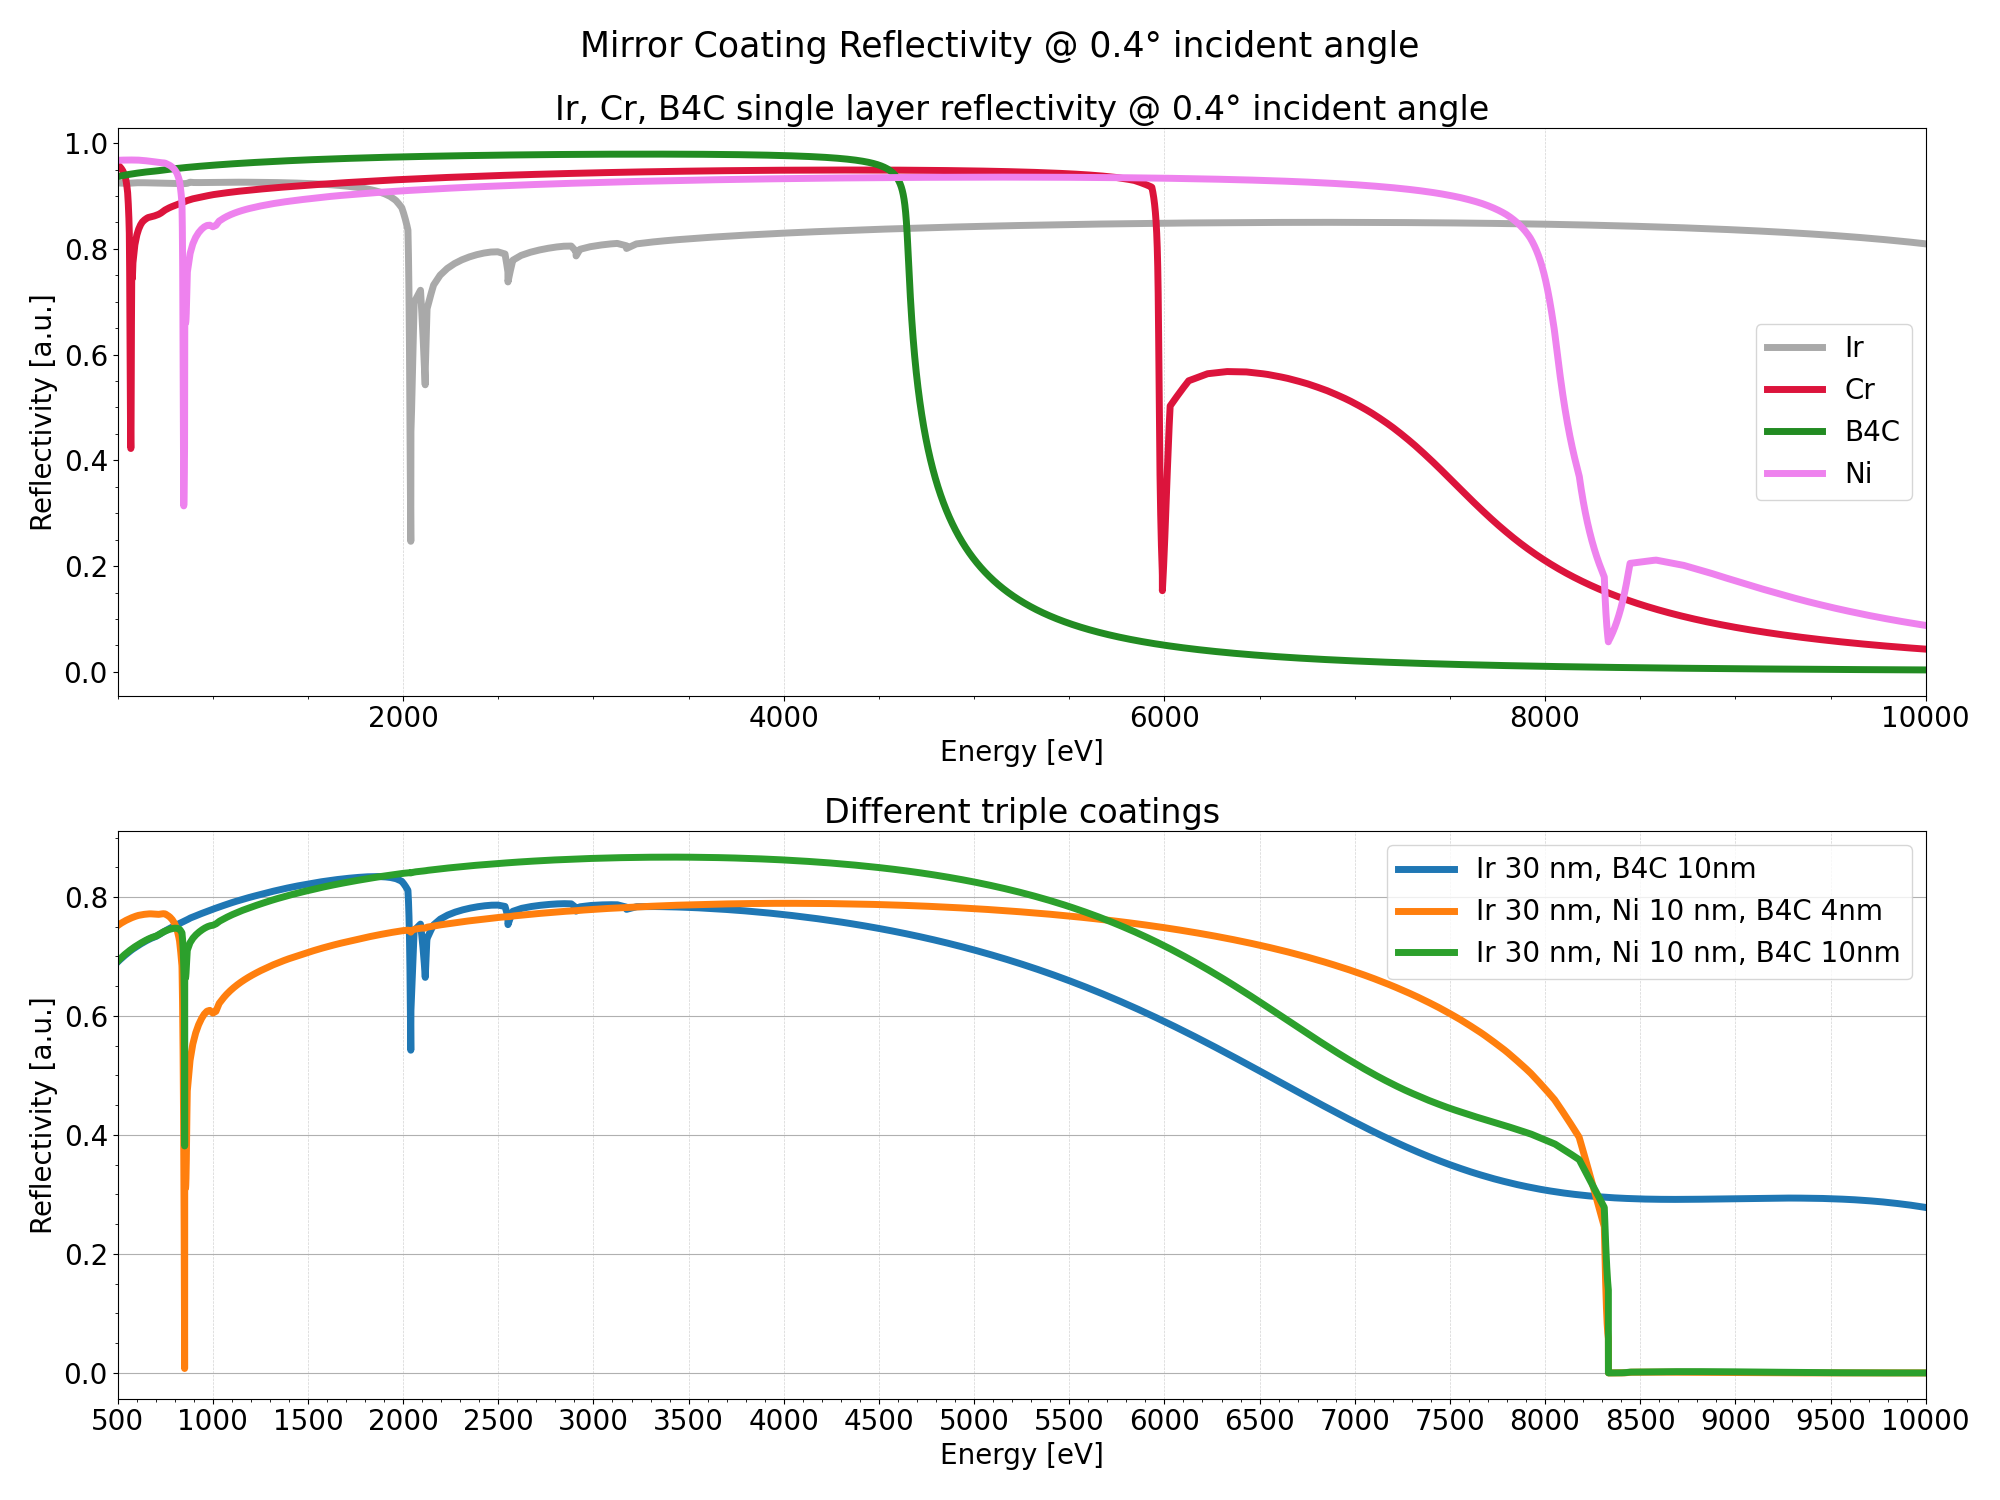
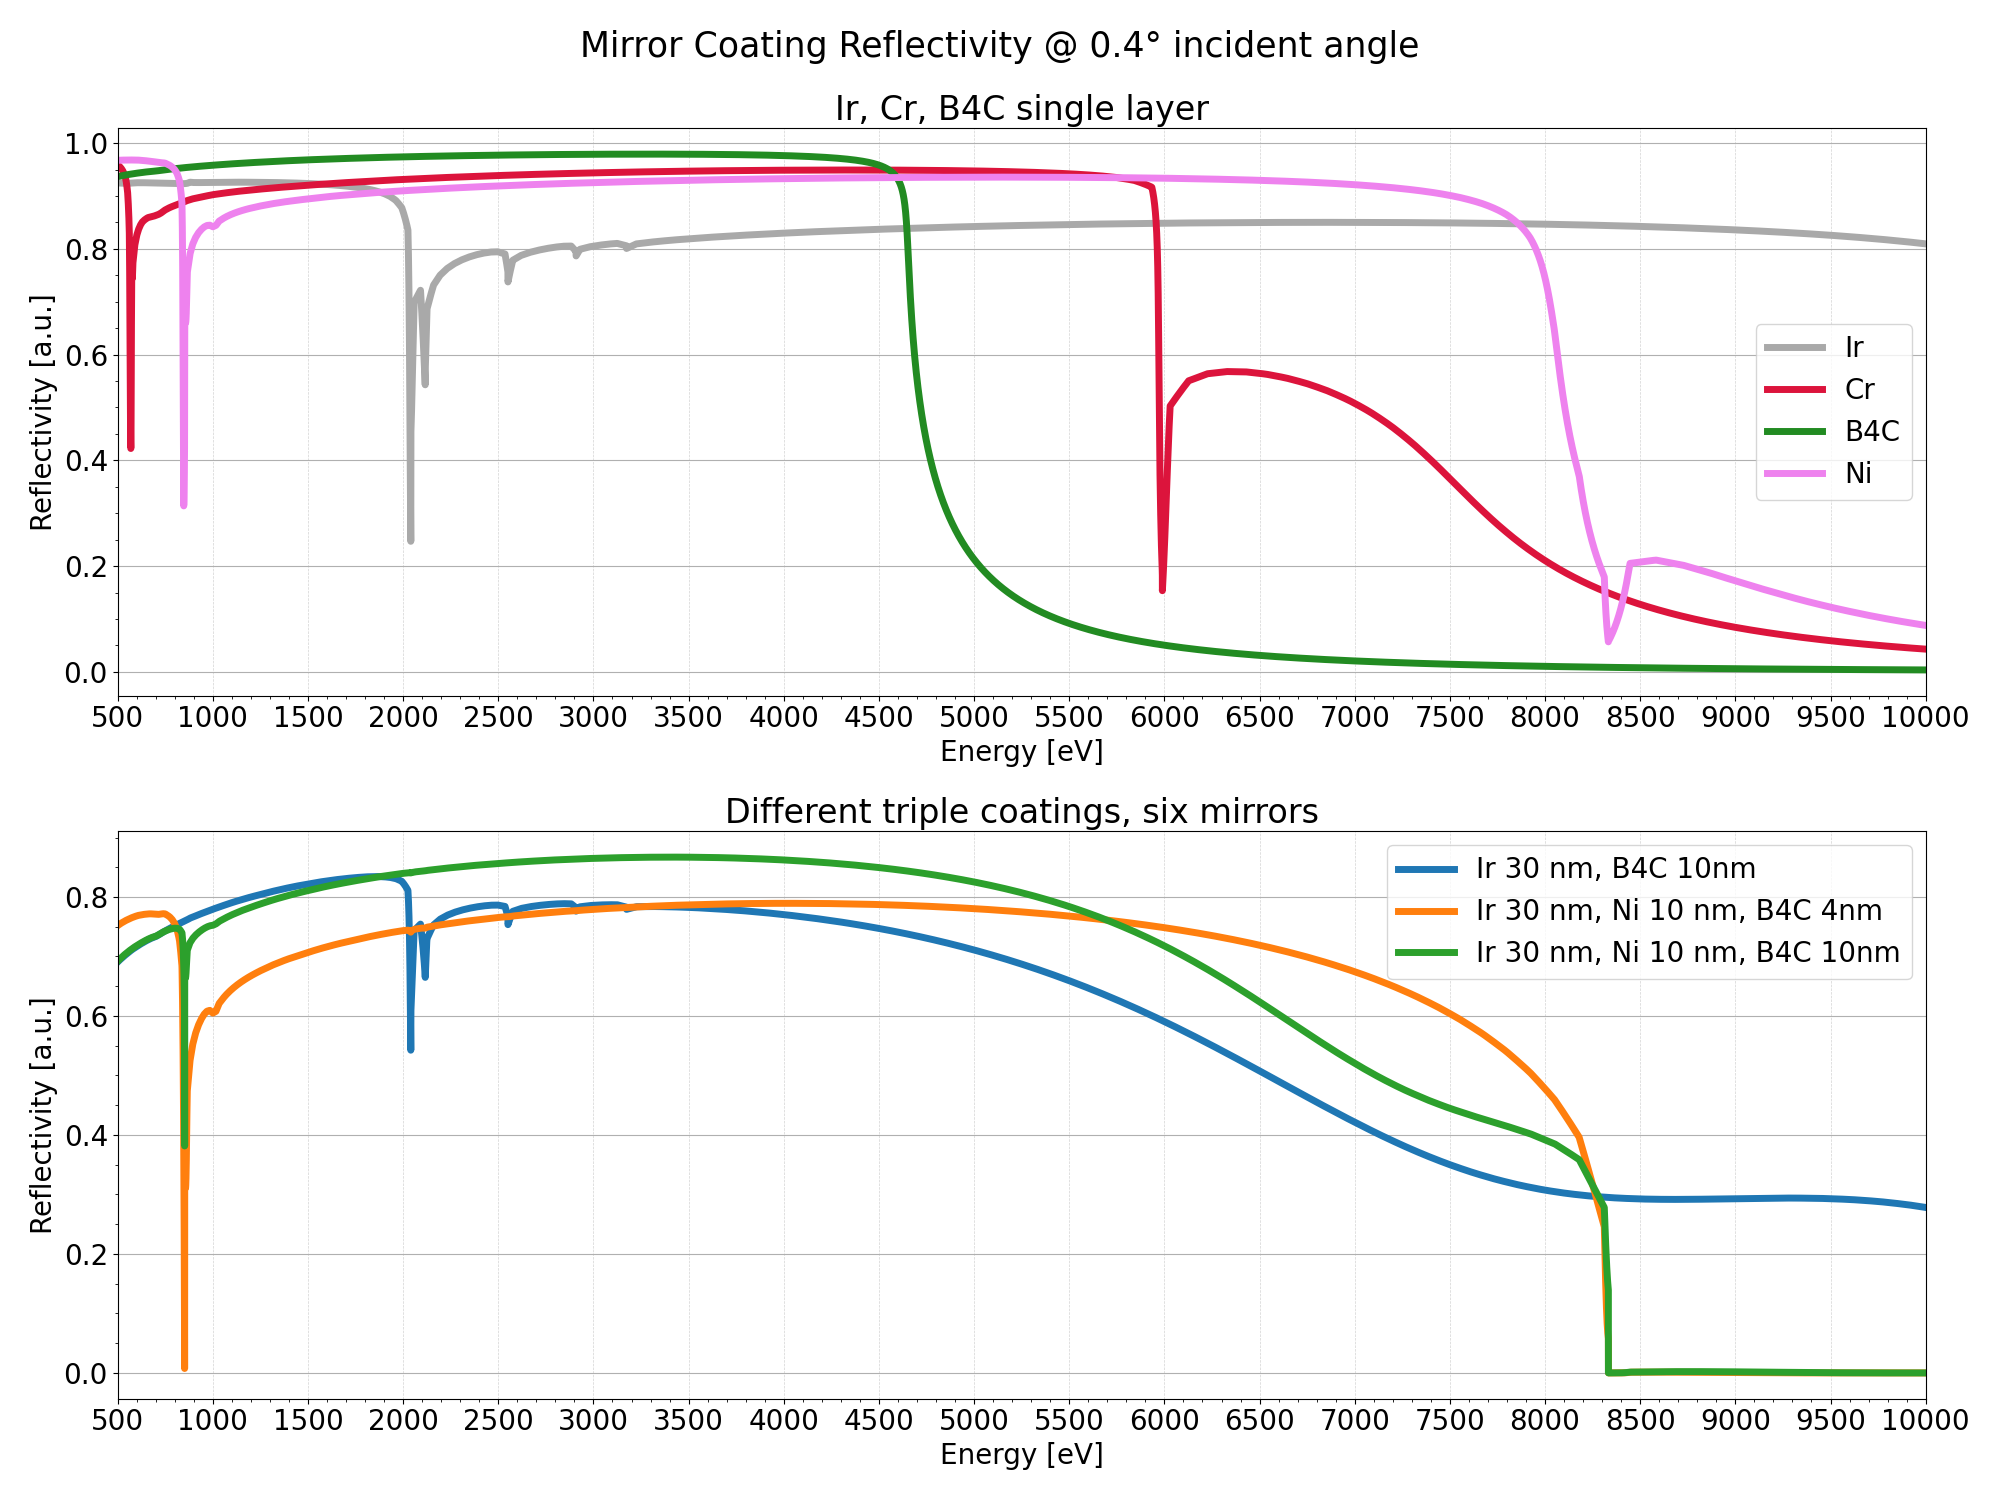
coatings sotexs

diff --git a/beamlines/Signature1-SoTeXS/simulations/coatings/coatings.py b/beamlines/Signature1-SoTeXS/simulations/coatings/coatings.py
@@ -39,14 +39,19 @@ ax1.plot(E, Cr_r, 'crimson', label='Cr', linewidth=5)
 ax1.plot(E, B4C_r, 'forestgreen', label='B4C', linewidth=5)
 ax1.plot(E, Ni_r, 'violet', label='Ni', linewidth=5)
 
-ax1.set_title('Ir, Cr, B4C single layer reflectivity @ 'f'{theta}° incident angle')
+ax1.set_title('Ir, Cr, B4C single layer')
 ax1.set_xlabel('Energy [eV]')
 ax1.set_ylabel('Reflectivity [a.u.]')
 ax1.legend(loc='center right')
 ax1.set_xlim(x_range)
 ax1.minorticks_on()
 ax1.grid(which='major', axis='x', linestyle='--', linewidth=0.5, color='lightgrey')
-
+# Add more ticks and labels
+ax1.xaxis.set_major_locator(ticker.MultipleLocator(500))  # 1 tick per unit
+# ax1.yaxis.set_major_locator(ticker.MultipleLocator(0.1))  # 0.1 tick per unit
+ax1.xaxis.set_minor_locator(ticker.AutoMinorLocator())
+# ax1.yaxis.set_minor_locator(ticker.AutoMinorLocator())
+ax1.grid(True)
 
 # some coatings
 ax1 = axs[1]
@@ -62,6 +67,7 @@ coating = rm.Multilayer(tLayer=B4C, tThickness=B4C_t*10,
 coating_r, _ = get_reflectivity(coating, E=E, theta=theta)
 ax1.plot(E, coating_r**power, label=f'Ir 30 nm, B4C {B4C_t}nm', linewidth=5)
 
+
 # Ir_Ni B4C
 Ni_t = 10
 for B4C_t in np.arange(4, 11, 6):
@@ -73,13 +79,11 @@ for B4C_t in np.arange(4, 11, 6):
              linewidth=5)
 
 
-ax1.set_title('Different triple coatings')
+ax1.set_title('Different triple coatings, six mirrors')
 ax1.set_xlabel('Energy [eV]')
 ax1.set_ylabel('Reflectivity [a.u.]')
 ax1.legend()
 ax1.set_xlim(x_range)
-ax1.minorticks_on()
-ax1.grid(which='major', axis='x', linestyle='--', linewidth=0.5, color='lightgrey')
 ax1.minorticks_on()
 ax1.grid(which='major', axis='x', linestyle='--', linewidth=0.5, color='lightgrey')
 
